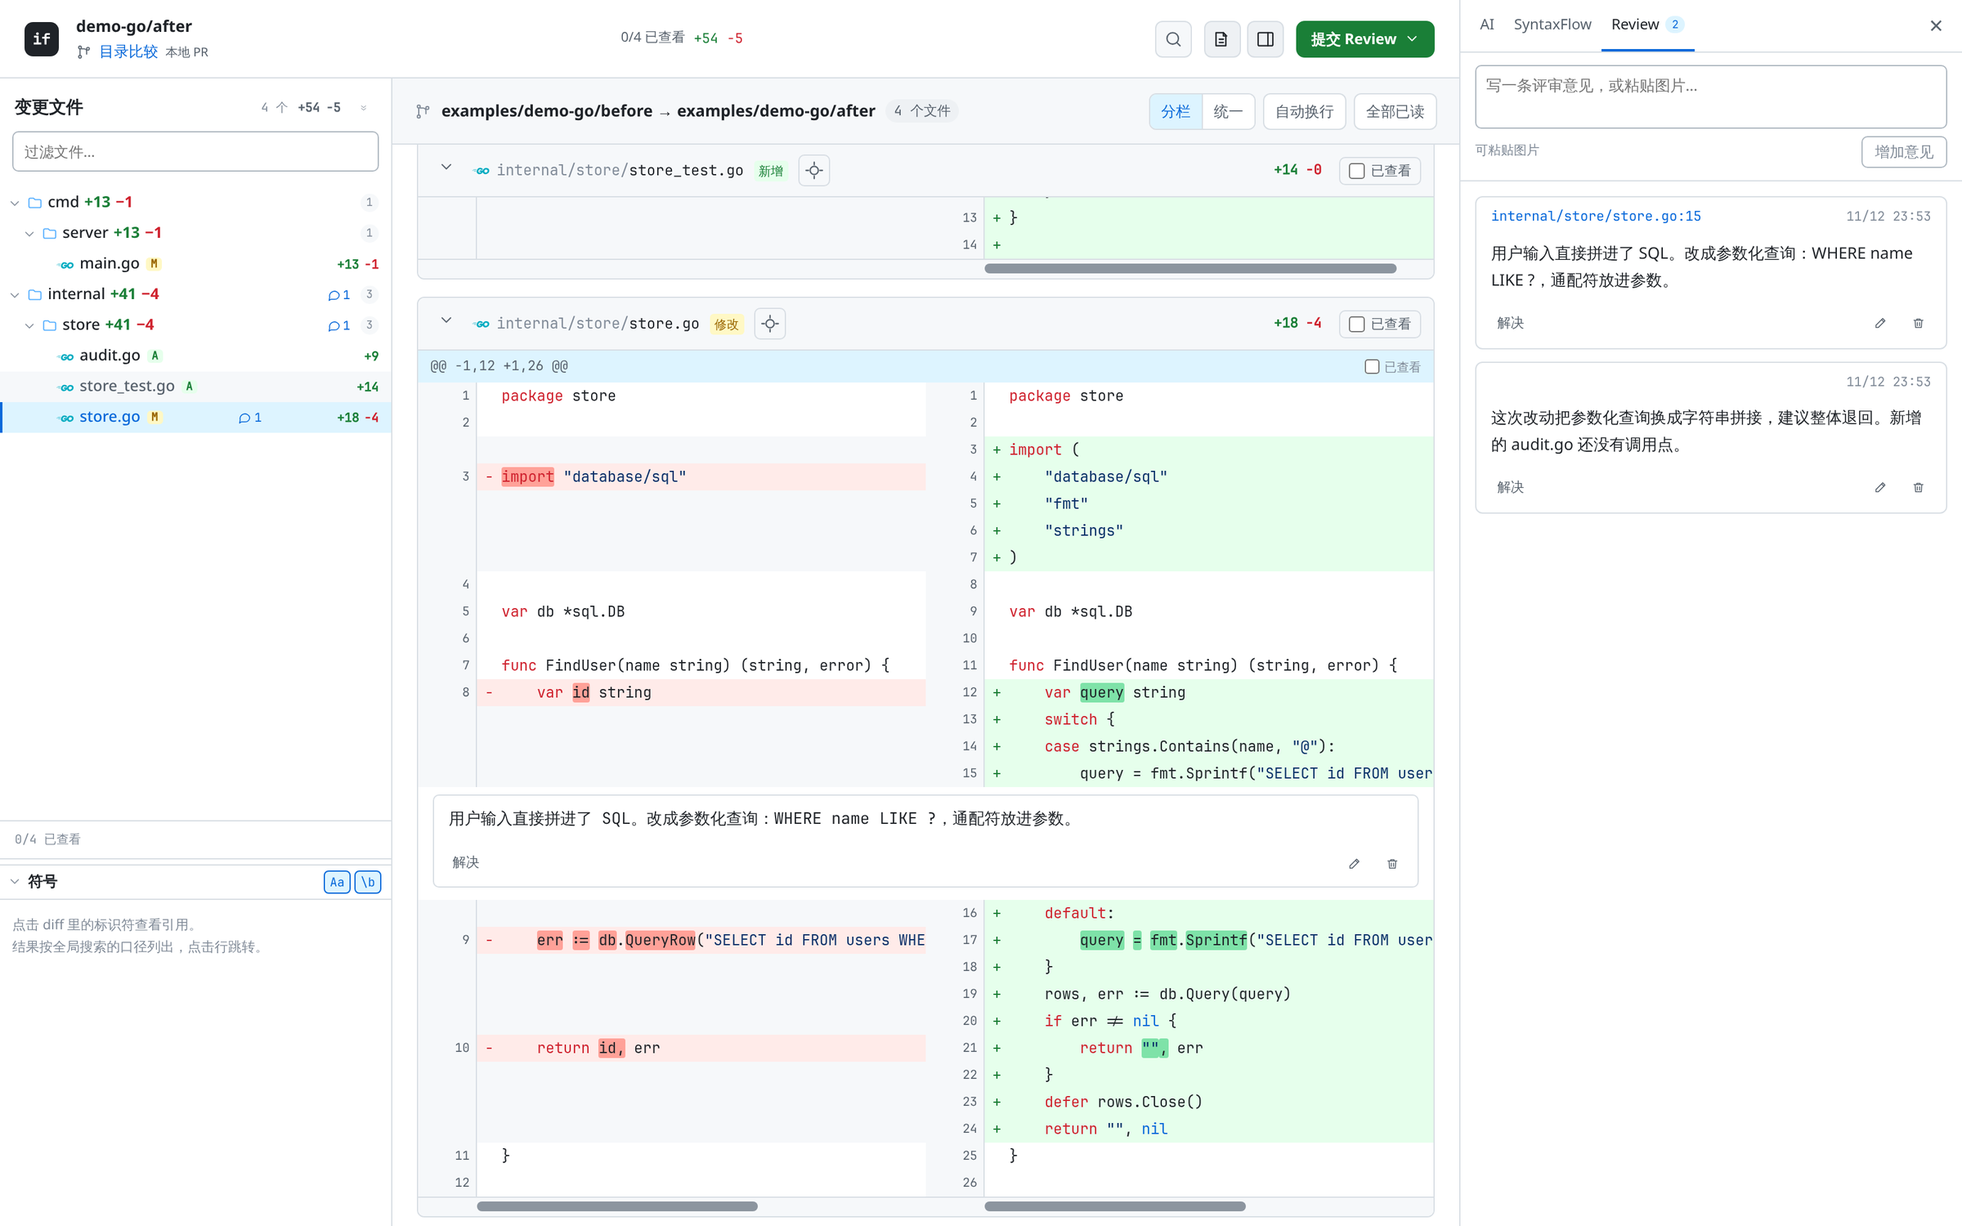
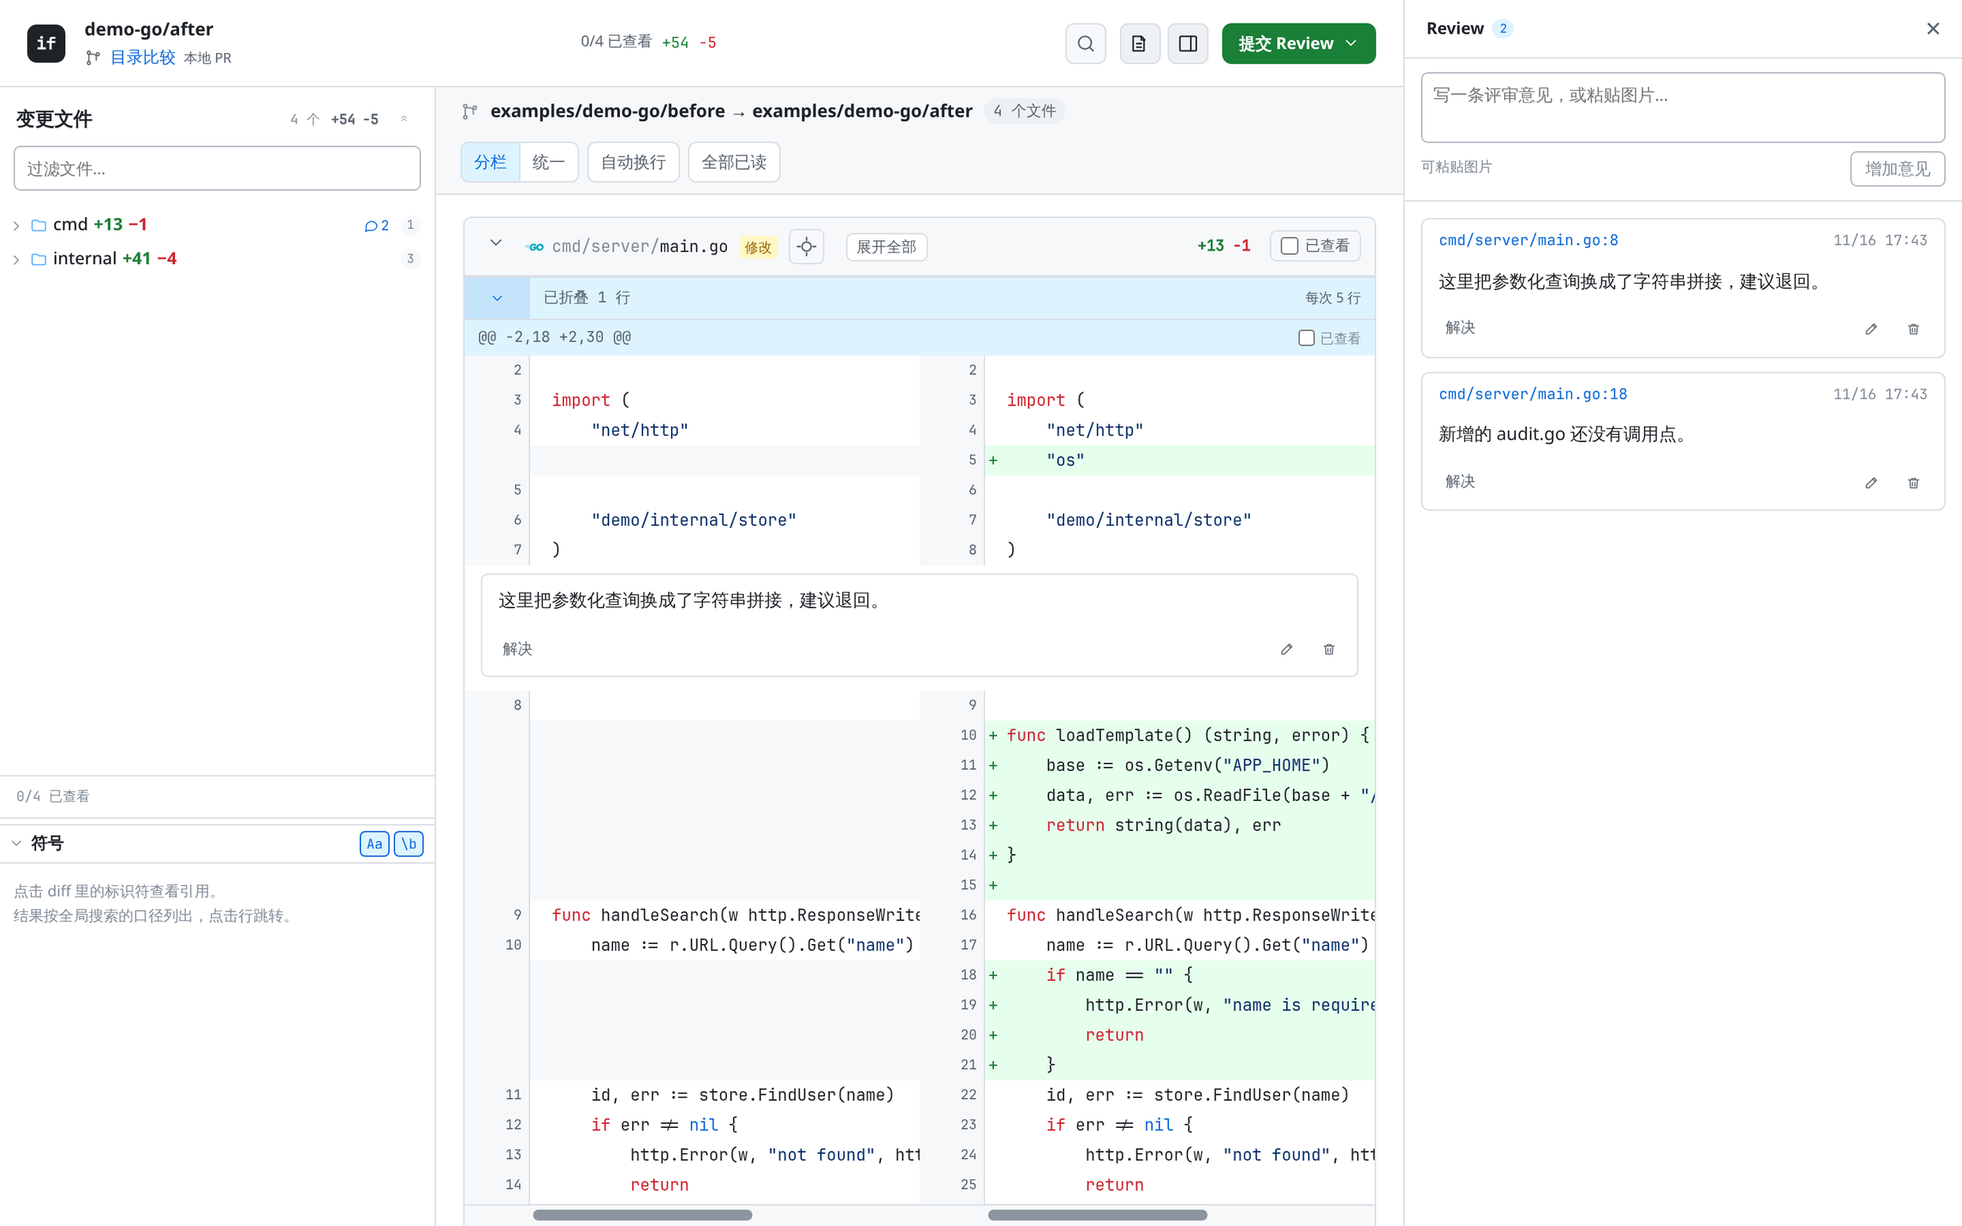
feat(site): show both ways to start, then the run output
The home page opens with two ways in: the command a person runs, with its real output, and the sentence an agent takes. The workbench panorama follows, then the four feature blocks. The review panel screenshot was retaken after the tab change, and the export sample now matches what the menu actually writes.

diff --git a/website/assets/app.js b/website/assets/app.js
@@ -7,6 +7,7 @@ const messages = {
     'page.title': 'intentflow — local diff workbench',
     'page.description': 'Read a local Git diff, comment on the lines, copy the review to your coding agent in one keystroke.',
     'nav.skip': 'Skip to content',
+    'nav.run': 'Run',
     'nav.comments': 'Comments',
     'nav.copy': 'Copy',
     'nav.git': 'Git ranges',
@@ -29,6 +30,11 @@ const messages = {
     'hero.docs': 'Read the docs',
     'panorama.alt': 'The whole workbench: file tree, the symbol panel and the diff cards in the middle, the review panel on the right.',
     'panorama.fig': 'The whole workbench, one binary.',
+    'run.title': 'Run it',
+    'run.you': 'You',
+    'run.agent': 'Agent',
+    'run.say': 'review my changes with intentflow',
+    'run.note': 'The skill runs the same command and gives you the URL.',
     'copy.title': 'Copy',
     'comments.title': 'Comments',
     'comments.claim': 'Comment the exact line.',
@@ -45,7 +51,7 @@ const messages = {
     'git.fig': 'Files and counts',
     'git.figAlt': 'The file tree with added and removed counts, status badges and comment counts.',
     'local.fig': 'Review panel',
-    'local.figAlt': 'The review panel with two comments on a diff, each carrying the code it quotes.',
+    'local.figAlt': 'The review panel: one composer at the top, two comments below it.',
     'symbols.title': 'Symbols',
     'symbols.claim': 'No index, no LSP.',
     'symbols.tag1': 'whole word',
@@ -69,7 +75,7 @@ const messages = {
     'status.stage4': 'LLM narrative layer',
     'status.available': 'Available',
     'status.todo': 'Not started',
-    'status.note': 'The AI and SyntaxFlow tabs report that they are inactive.',
+    'status.note': 'Stages two to four are not built.',
     'footer.tagline': 'Local diff workbench. Reviews stay in the browser.',
     'footer.docs': 'Docs',
     'footer.github': 'GitHub',
@@ -94,6 +100,12 @@ const messages = {
     'docs.nav.symbols': 'Symbols',
     'docs.nav.symbolsUsage': 'How to use it',
     'docs.nav.export': 'Export',
+    'docs.nav.agents': 'Agent skill',
+    'docs.agents.title': '6. For agents',
+    'docs.agents.body': 'The repo ships a skill at `skills/intentflow/SKILL.md`.',
+    'docs.agents.say': 'Say “review my changes with intentflow”. The agent runs the command and gives you the URL.',
+    'docs.agents.you': 'You still write the comments; the agent reads the Markdown you paste back.',
+
     'docs.nav.data': 'Where reviews live',
     'docs.nav.build': 'Build',
     'docs.nav.design': 'Design documents',
@@ -147,17 +159,17 @@ const messages = {
     'docs.export.markdown': 'Markdown: path, side, line, quoted code.',
     'docs.export.json': 'JSON: the full document.',
     'docs.export.shortcut': '`Ctrl`+`Enter` copies Markdown without the menu.',
-    'docs.export.sample': '## Review\n\n### 1. internal/store/store.go · R15\n> query = fmt.Sprintf("SELECT id FROM users WHERE name LIKE \'%%%s%%\'", name)\n\nConcatenated SQL. Use a parameterised query.\n\n### 2. Overall\nRevert the string concatenation.',
-    'docs.data.title': '6. Where reviews live',
+    'docs.export.sample': '# Review: main → HEAD\n\n## Review 意见\n\n### 1. internal/store/store.go:15 · 改动后\n\n> query = fmt.Sprintf("... WHERE name LIKE \'%s%\'", name)\n\n改成参数化查询。\n\n### 2. 整体意见\n这次改动建议整体退回。',
+    'docs.data.title': '7. Where reviews live',
     'data.reviews': 'Reviews: `localStorage`, key `intentflow.review.<comparison_id>`.',
     'data.images': 'Images: inline data URLs, up to 1.5MB each.',
     'data.layout': 'Layout preferences: the same store, `intentflow.` prefix.',
     'data.server': 'The server writes no files.',
-    'docs.build.title': '7. Build',
+    'docs.build.title': '8. Build',
     'docs.build.body': 'Go 1.24+, pnpm and git. `schema/openapi.yaml` generates both sides.',
     'docs.build.cmd': 'make tools          # oapi-codegen and frontend deps, once\nmake schema         # schema/openapi.yaml -> Go and TypeScript types\nmake check          # go vet, Go tests, tsc, Vitest\nmake build          # frontend build and static binary\nmake release-check  # cross-compile the six release targets',
     'docs.build.site': 'No binary yet? Run `./scripts/build.sh`. Site: `make site`, port 8131.',
-    'docs.design.title': '8. Design documents',
+    'docs.design.title': '9. Design documents',
     'docs.design.thesis': 'code cannot express intent',
     'docs.design.layers': 'the three layers',
     'docs.design.frontend': 'workbench layout',
@@ -172,6 +184,7 @@ const messages = {
     'page.title': 'intentflow — 本地 diff 工作台',
     'page.description': '读本地 Git diff，在改动上写评论，一次复制交给编码代理。',
     'nav.skip': '跳到正文',
+    'nav.run': '运行',
     'nav.comments': '评论',
     'nav.copy': '一键复制',
     'nav.git': 'Git 识别',
@@ -194,6 +207,11 @@ const messages = {
     'hero.docs': '查看文档',
     'panorama.alt': '整个工作台：左侧文件树与符号面板，中间是 diff 卡片，右侧是评审面板。',
     'panorama.fig': '整个工作台，一个二进制。',
+    'run.title': '运行',
+    'run.you': '你',
+    'run.agent': '代理',
+    'run.say': '用 intentflow 评审我的改动',
+    'run.note': 'skill 执行同一条命令，然后把地址给你。',
     'copy.title': '复制',
     'comments.title': '评论',
     'comments.claim': '在确切的行上评论。',
@@ -210,7 +228,7 @@ const messages = {
     'git.fig': '文件与计数',
     'git.figAlt': '文件树显示了增删行数、状态标记与评论数。',
     'local.fig': '评审面板',
-    'local.figAlt': '评审面板里的两条评论，各自带着引用的代码。',
+    'local.figAlt': '评审面板：顶部一个输入框，下面是两条评论。',
     'symbols.title': '符号',
     'symbols.claim': '不建索引，不用 LSP。',
     'symbols.tag1': '整词',
@@ -234,7 +252,7 @@ const messages = {
     'status.stage4': 'LLM 叙述层',
     'status.available': '可用',
     'status.todo': '未开始',
-    'status.note': 'AI 与 SyntaxFlow 页签会说明尚未启用。',
+    'status.note': '第二到第四阶段尚未实现。',
     'footer.tagline': '本地 diff 工作台。评审只存在浏览器里。',
     'footer.docs': '文档',
     'footer.github': 'GitHub',
@@ -259,6 +277,12 @@ const messages = {
     'docs.nav.symbols': '符号',
     'docs.nav.symbolsUsage': '用法',
     'docs.nav.export': '导出',
+    'docs.nav.agents': '代理 skill',
+    'docs.agents.title': '6. 给代理',
+    'docs.agents.body': '仓库自带 skill：`skills/intentflow/SKILL.md`。',
+    'docs.agents.say': '对代理说「用 intentflow 评审我的改动」。它执行命令，把地址给你。',
+    'docs.agents.you': '评论仍由你写；代理读你粘贴回去的 Markdown。',
+
     'docs.nav.data': '评审存在哪里',
     'docs.nav.build': '构建',
     'docs.nav.design': '设计文档',
@@ -312,17 +336,17 @@ const messages = {
     'docs.export.markdown': 'Markdown：路径、左右侧、行号、引用原文。',
     'docs.export.json': 'JSON：完整文档。',
     'docs.export.shortcut': '`Ctrl`+`Enter` 不开菜单直接复制 Markdown。',
-    'docs.export.sample': '## 评审\n\n### 1. internal/store/store.go · R15\n> query = fmt.Sprintf("SELECT id FROM users WHERE name LIKE \'%%%s%%\'", name)\n\n用户输入直接拼进了 SQL。改成参数化查询。\n\n### 2. 整体意见\n建议退回这处字符串拼接。',
-    'docs.data.title': '6. 评审存在哪里',
+    'docs.export.sample': '# Review: main → HEAD\n\n## Review 意见\n\n### 1. internal/store/store.go:15 · 改动后\n\n> query = fmt.Sprintf("... WHERE name LIKE \'%s%\'", name)\n\n改成参数化查询。\n\n### 2. 整体意见\n这次改动建议整体退回。',
+    'docs.data.title': '7. 评审存在哪里',
     'data.reviews': '评审：`localStorage`，键 `intentflow.review.<comparison_id>`。',
     'data.images': '图片：内联 data URL，单张上限 1.5MB。',
     'data.layout': '布局偏好：同一个存储，前缀 `intentflow.`。',
     'data.server': '服务端不写文件。',
-    'docs.build.title': '7. 构建',
+    'docs.build.title': '8. 构建',
     'docs.build.body': '需要 Go 1.24+、pnpm 与 git。`schema/openapi.yaml` 生成两侧类型。',
     'docs.build.cmd': 'make tools          # 安装 oapi-codegen 与前端依赖，一次即可\nmake schema         # schema/openapi.yaml -> Go 与 TypeScript 类型\nmake check          # go vet、Go 测试、tsc、Vitest\nmake build          # 前端构建 + 静态二进制\nmake release-check  # 六个发布目标交叉编译验证',
     'docs.build.site': '没有二进制？跑 `./scripts/build.sh`。站点用 `make site`，端口 8131。',
-    'docs.design.title': '8. 设计文档',
+    'docs.design.title': '9. 设计文档',
     'docs.design.thesis': '代码不能表达意图',
     'docs.design.layers': '三层模型',
     'docs.design.frontend': '工作台布局',

diff --git a/website/docs.html b/website/docs.html
@@ -75,6 +75,7 @@
             </ul>
           </li>
           <li><a href="#export" data-i18n="docs.nav.export">Export</a></li>
+          <li><a href="#agents" data-i18n="docs.nav.agents">Agent skill</a></li>
         </ul>
 
         <p class="docs-nav__group" data-i18n="docs.group.reference">Reference</p>
@@ -159,9 +160,9 @@ intentflow --no-open --base main</code></pre>
       <section class="doc-section" id="review">
         <h2 data-i18n="docs.review.title">3. Review</h2>
         <p data-i18n="docs.review.body">Comments and marks belong to this comparison, in the browser.</p>
-        <figure class="shot">
+        <figure class="shot shot--small">
           <div class="frame">
-            <img src="./assets/img/shot-local.png" width="1102" height="665" loading="lazy" data-i18n-alt="local.figAlt" alt="The review panel with two comments on a diff, each carrying the code it quotes.">
+            <img src="./assets/img/shot-local.png" width="400" height="400" loading="lazy" data-i18n-alt="local.figAlt" alt="The review panel: one composer at the top, two comments below it.">
             <figcaption data-i18n="local.fig">Review panel</figcaption>
           </div>
         </figure>
@@ -217,20 +218,32 @@ intentflow --no-open --base main</code></pre>
             <span class="mono">review.md</span>
             <button class="copy-btn" type="button" data-copy="export-sample" data-i18n="btn.copy">Copy</button>
           </div>
-          <pre><code data-i18n="docs.export.sample" id="export-sample">## Review
+          <pre><code data-i18n="docs.export.sample" id="export-sample"># Review: main → HEAD
 
-### 1. internal/store/store.go · R15
-&gt; query = fmt.Sprintf("SELECT id FROM users WHERE name LIKE '%%%s%%'", name)
+## Review 意见
 
-Concatenated SQL. Use a parameterised query.
+### 1. internal/store/store.go:15 · 改动后
 
-### 2. Overall
-Revert the string concatenation.</code></pre>
+&gt; query = fmt.Sprintf("... WHERE name LIKE '%s%'", name)
+
+改成参数化查询。
+
+### 2. 整体意见
+这次改动建议整体退回。</code></pre>
         </div>
       </section>
 
+      <section class="doc-section" id="agents">
+        <h2 data-i18n="docs.agents.title">6. For agents</h2>
+        <p data-i18n="docs.agents.body">The repo ships a skill at <code>skills/intentflow/SKILL.md</code>.</p>
+        <ul class="bullets">
+          <li data-i18n="docs.agents.say">Say “review my changes with intentflow”. The agent runs the command and gives you the URL.</li>
+          <li data-i18n="docs.agents.you">You still write the comments; the agent reads the Markdown you paste back.</li>
+        </ul>
+      </section>
+
       <section class="doc-section" id="data">
-        <h2 data-i18n="docs.data.title">6. Where reviews live</h2>
+        <h2 data-i18n="docs.data.title">7. Where reviews live</h2>
         <ul class="bullets">
           <li data-i18n="data.reviews">Reviews: `localStorage`, key `intentflow.review.&lt;comparison_id&gt;`.</li>
           <li data-i18n="data.images">Images: inline data URLs, up to 1.5MB each.</li>
@@ -240,7 +253,7 @@ Revert the string concatenation.</code></pre>
       </section>
 
       <section class="doc-section" id="build">
-        <h2 data-i18n="docs.build.title">7. Build</h2>
+        <h2 data-i18n="docs.build.title">8. Build</h2>
         <p data-i18n="docs.build.body">Go 1.24+, pnpm and git. `schema/openapi.yaml` generates both sides.</p>
         <div class="codeblock">
           <div class="codeblock__head">
@@ -257,7 +270,7 @@ make release-check  # cross-compile the six release targets</code></pre>
       </section>
 
       <section class="doc-section" id="design">
-        <h2 data-i18n="docs.design.title">8. Design documents</h2>
+        <h2 data-i18n="docs.design.title">9. Design documents</h2>
         <ul class="bullets">
           <li><a href="https://github.com/wlingze/intentflow/blob/master/docs/00-thesis.md"><code>docs/00-thesis.md</code></a> — <span data-i18n="docs.design.thesis">code cannot express intent</span></li>
           <li><a href="https://github.com/wlingze/intentflow/blob/master/docs/02-layers.md"><code>docs/02-layers.md</code></a> — <span data-i18n="docs.design.layers">the three layers</span></li>

diff --git a/website/index.html b/website/index.html
@@ -23,6 +23,7 @@
       </a>
 
       <nav class="site-nav" aria-label="Site">
+        <a href="#run" data-i18n="nav.run">Run</a>
         <a href="#comments" data-i18n="nav.comments">Comments</a>
         <a href="#copy" data-i18n="nav.copy">Copy</a>
         <a href="#git" data-i18n="nav.git">Git ranges</a>
@@ -58,11 +59,34 @@
       </div>
     </section>
 
+    <section class="section" id="run">
+      <div class="container">
+        <h2 class="section__title" data-i18n="run.title">Run it</h2>
+        <div class="run">
+          <div class="run__col">
+            <p class="run__label" data-i18n="run.you">You</p>
+            <pre class="term"><code>$ intentflow --base master
+· 分支 feat/site-and-tests；基线 master
+· 比较 15c4cd19 → 89268602，18 个改动文件
+review 工作台:
+  http://127.0.0.1:8123</code></pre>
+          </div>
+          <div class="run__col">
+            <p class="run__label" data-i18n="run.agent">Agent</p>
+            <p class="run__say">“<span data-i18n="run.say">review my changes with intentflow</span>”</p>
+            <p class="run__note" data-i18n="run.note">The skill runs the same command and gives you the URL.</p>
+          </div>
+        </div>
+      </div>
+    </section>
+
     <section class="panorama">
       <div class="container">
         <figure class="shot shot--band">
           <div class="frame">
-            <img src="./assets/img/shot-panorama.png" width="2400" height="1500" loading="lazy" data-i18n-alt="panorama.alt" alt="The whole workbench: file tree, the symbol panel and the diff cards in the middle, the review panel on the right.">
+            <div class="panorama__scroll">
+              <img src="./assets/img/shot-panorama.png" width="2400" height="1500" loading="lazy" data-i18n-alt="panorama.alt" alt="The whole workbench: file tree, the symbol panel and the diff cards in the middle, the review panel on the right.">
+            </div>
             <figcaption data-i18n="panorama.fig">The whole workbench, one binary.</figcaption>
           </div>
         </figure>
@@ -228,7 +252,7 @@ intentflow version</code></pre>
           </table>
         </div>
 
-        <p class="fine" data-i18n="status.note">The AI and SyntaxFlow tabs report that they are inactive.</p>
+        <p class="fine" data-i18n="status.note">Stages two to four are not built.</p>
       </div>
     </section>
   </main>

diff --git a/website/assets/style.css b/website/assets/style.css
@@ -262,6 +262,80 @@ pre,
   padding-bottom: var(--space-xl);
 }
 
+/* Two ways in: the command a person runs, the sentence an agent takes. */
+.run {
+  display: grid;
+  gap: var(--space-lg);
+  margin-top: var(--space-sm);
+}
+
+.run__col {
+  min-width: 0;
+}
+
+.run__label {
+  margin-bottom: var(--space-2xs);
+  font-family: var(--font-mono);
+  font-size: var(--text-2xs);
+  letter-spacing: 0.08em;
+  color: var(--muted);
+}
+
+.run__say {
+  padding: var(--space-sm) var(--space-md);
+  border-left: 2px solid var(--accent);
+  background: var(--surface-2);
+  font-size: var(--text-lg);
+  line-height: var(--leading-snug);
+  letter-spacing: -0.01em;
+}
+
+.run__note {
+  margin-top: var(--space-xs);
+  color: var(--ink-2);
+  font-size: var(--text-sm);
+  line-height: var(--leading-snug);
+}
+
+/* Below 700px the panorama would shrink to a 0.15x thumbnail. Keep it
+   readable and let the reader swipe instead. */
+@media (max-width: 700px) {
+  .panorama__scroll {
+    overflow-x: auto;
+    -webkit-overflow-scrolling: touch;
+  }
+
+  .shot .panorama__scroll img {
+    width: 860px;
+    max-width: none;
+  }
+}
+
+.term {
+  margin: 0;
+  padding: var(--space-sm) var(--space-md);
+  overflow-x: auto;
+  background: #16181c;
+  color: #c8ccd4;
+  font-family: var(--font-mono);
+  font-size: var(--text-xs);
+  line-height: 1.75;
+  border-radius: 4px;
+  box-shadow: inset 0 0 0 1px rgba(255, 255, 255, 0.07);
+}
+
+.term code {
+  font: inherit;
+  white-space: pre;
+}
+
+@media (min-width: 860px) {
+  .run {
+    grid-template-columns: minmax(0, 1.15fr) minmax(0, 1fr);
+    align-items: start;
+  }
+}
+
 .pillar--wide .wide-head {
   display: flex;
   flex-wrap: wrap;

diff --git a/README.md b/README.md
@@ -228,10 +228,11 @@ localStorage 行为在 `file://` 下不一致。
 默认跟随 `prefers-color-scheme`，选择存 `intentflow.theme`。中英文案只在
 `website/assets/app.js` 的字典里，HTML 里写英文作无脚本兜底。
 
-首页信息层级：一句话定位，然后是四个整幅重点块（一键复制、Git 识别、
-本地优先、符号引用），各自配一张真实截图，再往下是「还有」紧凑列表、
-安装与现状。文档页是左侧常驻目录加正文两栏，小于 900px 时目录收成
-「目录」按钮与覆盖层，当前章节由 `IntersectionObserver` 高亮。
+首页信息层级：一句话定位，然后是两种启动方式（人用命令行、代理用
+skill），接着全幅工作台截图。之后是四个功能块：评论占整幅，复制、Git
+范围、符号引用各占半幅，每块一张从真实界面裁下来的局部图，配一行说明。
+文档页是左侧常驻目录加正文两栏，小于 900px 时目录收成「目录」按钮与
+覆盖层，当前章节由 `IntersectionObserver` 高亮。
 
 `make site-check` 校验必需文件、相对路径、只有 GitHub 外链、两种语言 key
 集合一致、HTML 兜底文案与英文字典一致，以及首页四个重点块、文档侧边栏
